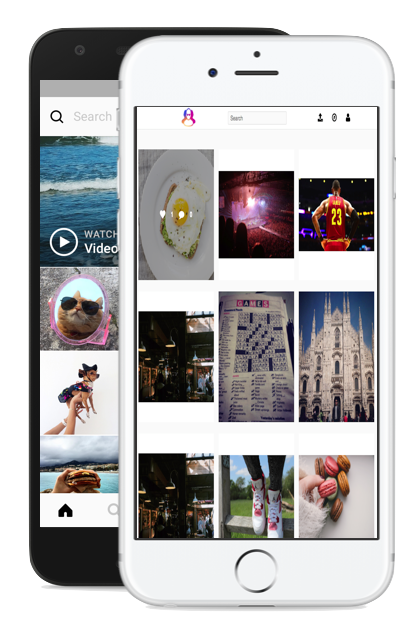
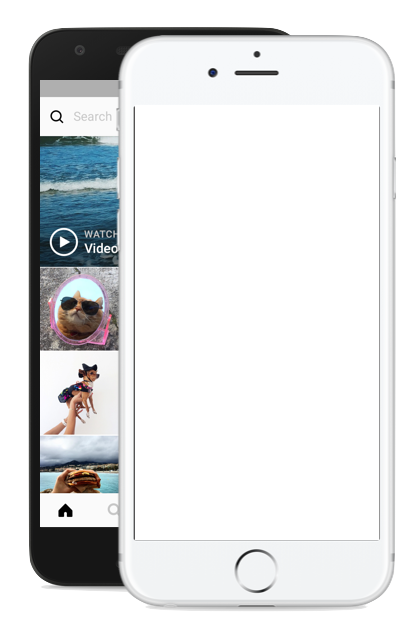
reformatted entry screen photo

Changed region(s): [[0.322, 0.1501, 0.9366, 0.8705], [0.761, 0.1801, 0.8195, 0.2101], [0.5561, 0.1801, 0.5854, 0.2101]]

diff --git a/app/assets/stylesheets/style_entry_screen.scss b/app/assets/stylesheets/style_entry_screen.scss
@@ -1,43 +1,61 @@
 .entry-screen-container {
-  width: 100%;
-  min-width: 900px;
+  width: 60%;
   height: 700px;
   display: flex;
   margin: 0 auto;
   margin-top: 50px;
   justify-content: center;
   background-color: inherit;
-  overflow: auto;
-}
-
-.main-form {
-  background-color: #fff;
-  position: relative;
-  border: 1px solid #e6e6e6;
-  width: 350px;
-  height: auto;
-  margin-right: 8em;
-  margin-top: 3em;
-  padding-bottom: 20px;
-  text-align: center;
-}
-
-.alternate-form {
-  background-color: #fff;
-  position: relative;
-  width: 350px;
-  height: 75px;
-  text-align: center;
-  margin-top: 10px;
-  border: 1px solid #e6e6e6;
 }
 
 .entry-photo-container {
-  width: 425px;
-  height: 625px;
-  left: 22em;
-  top: 5em;
-  background-image: image-url('ig_stock_photo.png');
+  width: 410px;
+  height: 700px;
+}
+
+.entry-form-container {
+  width: 350px;
+  height: 700px;
+  margin-left: 50px;
+}
+
+.background-photo {
+  margin-top: 2em;
+  position: relative;
+}
+
+.main-entry-form {
+  background-color: #fff;
+  position: relative;
+  width: 350px;
+  text-align: center;
+  border: 1px solid #e6e6e6;
+  margin-top: 4em;
+}
+
+#main-form {
+  height: auto;
+  padding-bottom: 20px;
+}
+
+#alternate-form {
+  height: 75px;
+  margin-top: 10px;
+}
+
+.pxlgram-photo {
+  position: absolute;
+  width: 247px;
+  height: 429px;
+  right: 33px;
+  top: 110px;
+}
+
+.pxlgram-photo img {
+  position: absolute;
+  width: 100%;
+  height: 100%;
+  object-fit: cover;
 }
 
 .entry-form {
@@ -45,14 +63,17 @@
 }
 
 .session-form-input {
-  background-color: #FAFAFA;
+  background-color: #fafafa;
   padding: 9px 0 7px 8px;
   width: 80%;
   margin: 5px;
-  border-radius: 5px;
   font-size: 13px;
-  border: 1px solid #ccc;
+  border: 1px solid #efefef;
   border-radius: 3px;
+}
+
+::-webkit-input-placeholder {
+  color: #999999;
 }
 
 .session-form-input:focus {
@@ -77,7 +98,7 @@
 }
 
 .title {
-  font-size: 5em;
+  font-size: 4em;
   font-family: 'Leckerli One', cursive;
   margin-top: 25px;
 }
@@ -97,6 +118,10 @@
 .alternate-form-text {
   color: #262626;
   margin-top: 25px;
+  a {
+    text-decoration: none;
+    color: #3699f2;
+  }
 }
 
 .errorMessages {

diff --git a/frontend/components/sessions/session_entry_page.jsx b/frontend/components/sessions/session_entry_page.jsx
@@ -32,20 +32,24 @@ class SessionPage extends React.Component {
     return (
       <div className='entry-screen'>
         <article className='entry-screen-container'>
+          <aside className='entry-photo-container'>
+            <div className='background-photo'>
+              <img src="/assets/ig-backdrop.png"></img>
+              <div className='pxlgram-photo'>
+                <img src="/assets/pxlgram_content.png"></img>
+              </div>
+            </div>
+          </aside>
 
-          <div className='entry-photo-container'>
-            <div className='entry-photo'></div>
-          </div>
-          <div className='entry-form-container'>
+          <aside className='entry-form-container'>
             {formToRender}
 
-            <div className='alternate-form'>
+            <div id='alternate-form' className="main-entry-form">
               <span className='alternate-form-text'>
                 {alternateEntryText} {alternateEntryLink}
               </span>
             </div>
-          </div>
-
+          </aside>
         </article>
       </div>
     )

diff --git a/app/assets/stylesheets/style_modal.scss b/app/assets/stylesheets/style_modal.scss
@@ -1,5 +1,5 @@
 .photo-modal  {
-  z-index: 3;
+  z-index: 105 !important;
   border: 1px solid red;
 }
 
@@ -7,5 +7,26 @@
   border: 1px solid blue;
   width: 500px;
   height: 500px;
-  z-index: 3;
 }
+
+.base, .afterOpen {
+  z-index: 3 !important;
+}
+
+.overlay-default {
+  z-index: 2;
+  position: fixed;
+  top: 0;
+  left: 0;
+  right: 0;
+  bottom: 0;
+  background-color: rgba(40, 40, 40, 0.75)
+}
+
+// overlayClassName={
+//   {
+//     base: '.overlay-default',
+//     afterOpen: '.overlay-default',
+//     beforeClose: '.overlay-default'
+//   }
+// }

diff --git a/frontend/components/sessions/signup_form.jsx b/frontend/components/sessions/signup_form.jsx
@@ -127,13 +127,13 @@ class SignUpForm extends React.Component {
     )
 
     return (
-      <div className='main-form'>
+      <div className="main-entry-form" id='main-form'>
         <h2 className='title'>pxlgram</h2>
         <br />
         {signUpWelcomeText}
         <form onSubmit={this.handleFormSubmit} className='entry-form'>
-          {fullNameInput}
           {emailInput}
+          {fullNameInput}
           {usernameInput}
           {passwordInput}
           <input

diff --git a/app/assets/stylesheets/style_photo_index.scss b/app/assets/stylesheets/style_photo_index.scss
@@ -16,7 +16,8 @@
   margin-bottom: 60px;
   background-color: #ffffff;
   width: 100%;
-  outline: 1px solid #e6e6e6;
+  border: 1px solid #efefef;
+  border-radius: 3px;
   box-sizing: content-box;
 }
 
@@ -43,6 +44,7 @@
   width: 100%;
   display: flex;
   align-items: center;
+  border-bottom: 1px solid #efefef;
 }
 
 .stream-avatar-container {

diff --git a/frontend/components/sessions/login_form.jsx b/frontend/components/sessions/login_form.jsx
@@ -86,7 +86,7 @@ class LoginForm extends React.Component {
 
     return (
 
-        <div className='main-form'>
+        <div className='main-entry-form' id="main-form">
           <h2 className='title'>pxlgram</h2>
           <br />
           <form onSubmit={this.handleFormSubmit} className='entry-form'>
